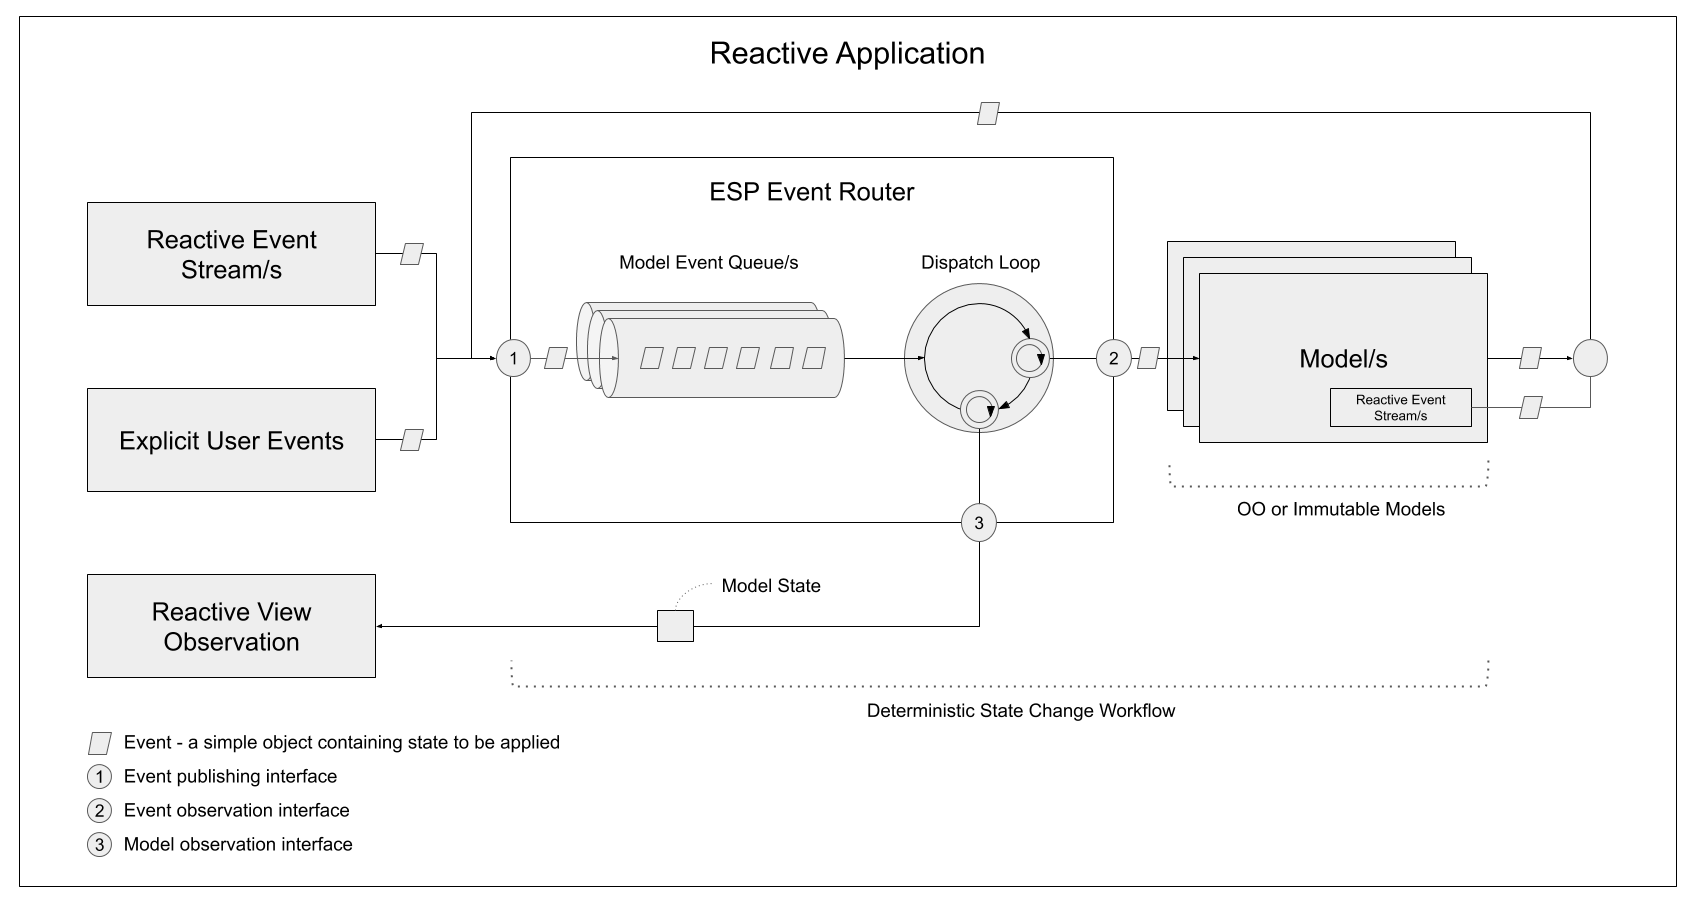
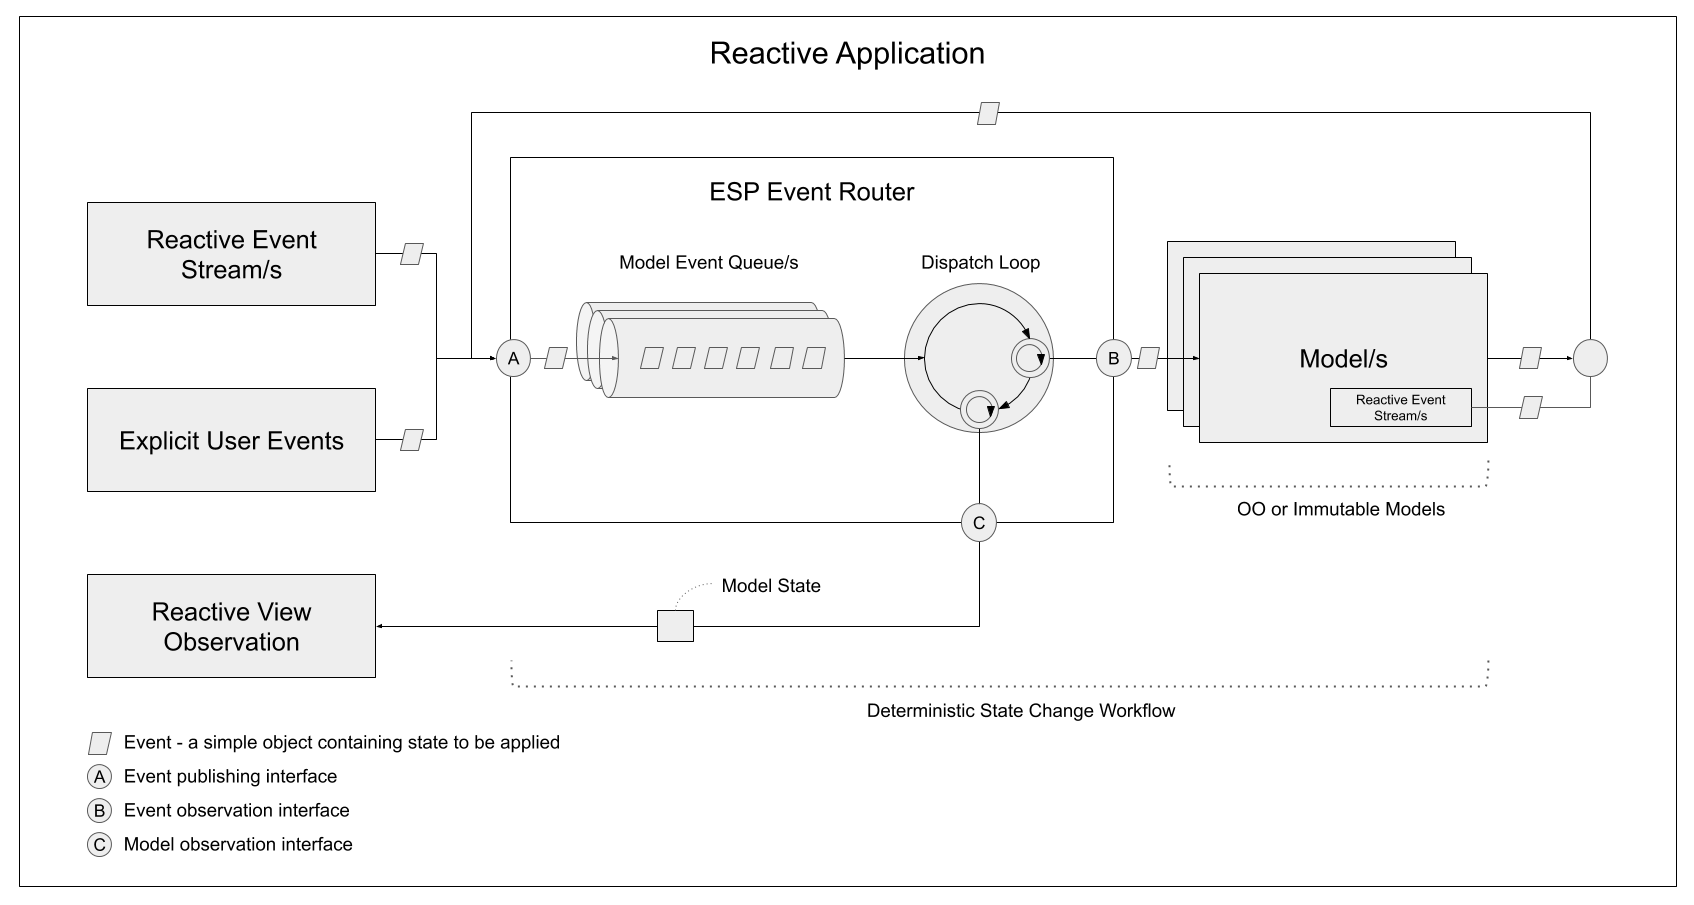
Updating diagrams.

diff --git a/index.md b/index.md
@@ -19,7 +19,7 @@ The models in your application can be either immutable or object oriented, and a
 Business modeling is more deteministic, well structured and testable as the model only ever changes by one event at a time.
 Central to ESP's design is an event `Router`.
 This object manages the state change workflow for all models in the system.
-It does this by providing 1) an event publishing interface to change state, 2) an event observation interface to mutate state, and 3) a model observation interface to observe state. 
+It does this by providing A) an event publishing interface to change state, B) an event observation interface to mutate state, and C) a model observation interface to observe state. 
 The below diagram shows this.
 
 ![](./images/esp-overview-reactive.png){: .align-center}

diff --git a/_docs/01-concepts/02-esp-js-polimer/02-immutable-modeling.md b/_docs/01-concepts/02-esp-js-polimer/02-immutable-modeling.md
@@ -9,4 +9,4 @@ permalink: /concepts/esp-js-polimer/immutable-modeling/
 
 ## Asynchronous Operations with Immutable Models 
 
-![](../../../images/immutable-async-flow.png){: .align-center}
+![](../../../images/esp-polimer-async-flow.png){: .align-center}
